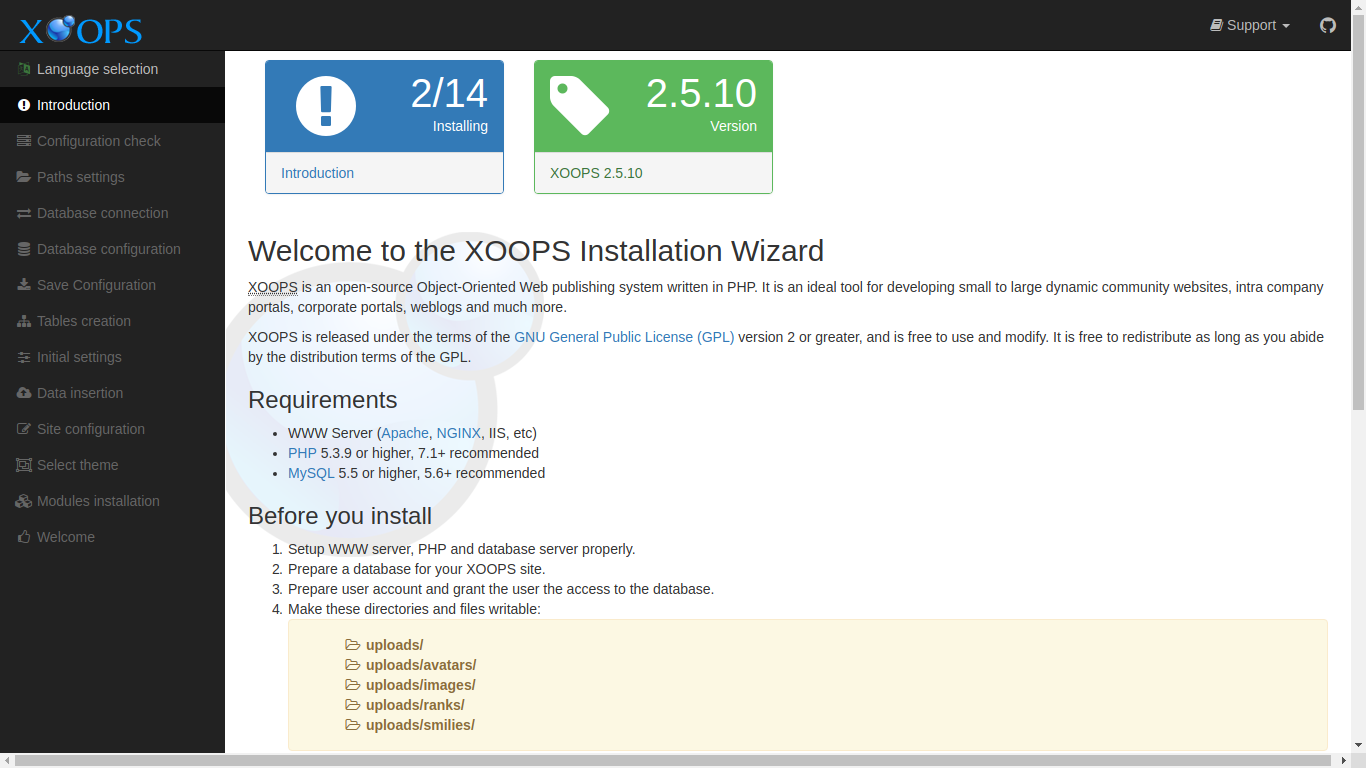
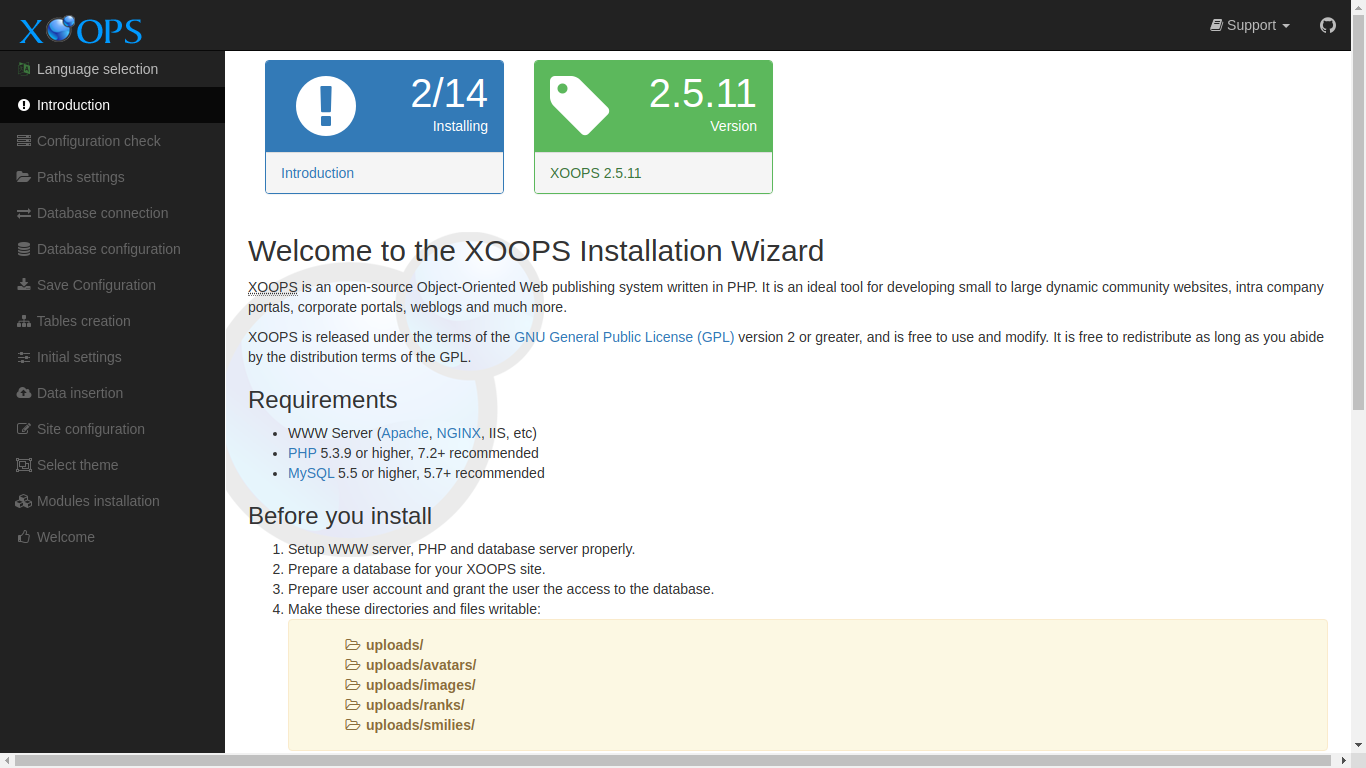
First draft 2.5.11

diff --git a/en.md b/en.md
@@ -2,7 +2,7 @@
 
 ![](.gitbook/assets/logoxoops.jpg)
 
-Copyright © 2018-2019 XOOPS Project \([https://xoops.org](https://xoops.org)\)
+Copyright © 2018-2020 XOOPS Project \([https://xoops.org](https://xoops.org)\)
 
 # Table of contents
 
@@ -62,8 +62,8 @@ Copyright © 2018-2019 XOOPS Project \([https://xoops.org](https://xoops.org)\)
 
 ## License:
 
-[![Creative Commons License](https://i.creativecommons.org/l/by-nc-sa/4.0/88x31.png)](http://creativecommons.org/licenses/by-nc-sa/4.0/)  
-Unless specified, this content is licensed under a [Creative Commons Attribution-NonCommercial-ShareAlike 4.0 International License](http://creativecommons.org/licenses/by-nc-sa/4.0/).
+[![Creative Commons License](https://i.creativecommons.org/l/by-nc-sa/4.0/88x31.png)](https://creativecommons.org/licenses/by-nc-sa/4.0/)  
+Unless specified, this content is licensed under a [Creative Commons Attribution-NonCommercial-ShareAlike 4.0 International License](https://creativecommons.org/licenses/by-nc-sa/4.0/).
 
 All derivative works are to be attributed to XOOPS Project \([xoops.org](https://xoops.org)\)
 

diff --git a/introduction.md b/introduction.md
@@ -1,6 +1,6 @@
 # Introduction
 
-[XOOPS](https://xoops.org), \(pronounced **/zo͞ops/**,\) is a web application platform built on PHP and MySQL. It is licensed under the terms of the GNU General Public License \(GPL\) version 2, and is free to use, modify, and even redistribute as long as you abide by the distribution terms of the [GPL](http://www.gnu.org/licenses/gpl-2.0.html).
+[XOOPS](https://xoops.org), \(pronounced **/zo͞ops/**,\) is a web application platform built on PHP and MySQL. It is licensed under the terms of the GNU General Public License \(GPL\) version 2, and is free to use, modify, and even redistribute as long as you abide by the distribution terms of the [GPL](https://www.gnu.org/licenses/gpl-2.0.html).
 
 The [XoopsCore](https://github.com/XOOPS/XoopsCore25) is a framework intended to be extended with [modules](https://github.com/XoopsModules25x) which provide the desired application functionality.
 

diff --git a/moving-a-site/moving.md b/moving-a-site/moving.md
@@ -61,10 +61,10 @@ As an example, if you are moving a site from your local PC to a commercial hosti
 | XOOPS\_ROOT\_PATH | c:/wamp/xoopscore25/htdocs | /home8/example/public\_html |
 | XOOPS\_PATH | c:/wamp/xoopscore25/htdocs/xoops\_lib | /home8/example/private/xoops\_lib |
 | XOOPS\_VAR\_PATH | c:/wamp/xoopscore25/htdocs/xoops\_data | /home8/example/private/xoops\_data |
-| XOOPS\_URL | [http://localhost/xoops/](http://localhost/xoops/) | [https://example.com](https://example.com) |
+| XOOPS\_URL | http://localhost/xoops | https://example.com |
 | XOOPS\_COOKIE\_DOMAIN | localhost | example.com |
 
-After you have changed mainfile.php, save it.
+After you have changed _mainfile.php_, save it.
 
 It is possible that some other files may contain hardcoded references to your URL or even paths. This is more likely in customized themes and menus, but with your editor, you can seach across all files, just to be sure.
 

diff --git a/installation/specialtopics.md b/installation/specialtopics.md
@@ -67,10 +67,12 @@ For more information consult your system documentation and/or systems administra
 
 ## MySQL 8.0 Environments
 
-MySQL 8.0 is not supported in all PHP versions. Even in the supported versions, issues with the 
- PHP *mysqlnd* library may require the MySQL server's *default-authentication-plugin* 
- to be set to *mysql_native_password* to function correctly.
+MySQL 8.0 is not fully supported in PHP versions before 7.1.16, or PHP 7.2 versions before 7.2.4. In earlier versions, 
+issues with the  PHP *mysqlnd* library may require the MySQL server's *default-authentication-plugin* to be set to 
+*mysql_native_password* to function correctly.
  
 Additional background may be found here: 
+
+https://www.php.net/manual/en/mysqli.requirements.php
 
 https://mysqlserverteam.com/upgrading-to-mysql-8-0-default-authentication-plugin-considerations/

diff --git a/license.md b/license.md
@@ -1,7 +1,7 @@
 # LICENSE
 
-[![Creative Commons License](https://i.creativecommons.org/l/by-nc-sa/4.0/88x31.png)](http://creativecommons.org/licenses/by-nc-sa/4.0/)  
-Unless otherwise specified, this content is licensed under a [Creative Commons Attribution-NonCommercial-ShareAlike 4.0 International License](http://creativecommons.org/licenses/by-nc-sa/4.0/).
+[![Creative Commons License](https://i.creativecommons.org/l/by-nc-sa/4.0/88x31.png)](https://creativecommons.org/licenses/by-nc-sa/4.0/)  
+Unless otherwise specified, this content is licensed under a [Creative Commons Attribution-NonCommercial-ShareAlike 4.0 International License](https://creativecommons.org/licenses/by-nc-sa/4.0/).
 
 All derivative works are to be attributed to XOOPS Project \([xoops.org](https://xoops.org)\)
 

diff --git a/tools/tools.md b/tools/tools.md
@@ -23,7 +23,7 @@ For XOOPS use, you will need an editor to tweak some configuration options as we
 | PhpStorm | [https://www.jetbrains.com/phpstorm/](https://www.jetbrains.com/phpstorm/) | Commercial | Any |
 | Visual Studio Code | [https://code.visualstudio.com/](https://code.visualstudio.com/) | MIT | Any |
 | Notepad++ | [https://notepad-plus-plus.org/](https://notepad-plus-plus.org/) | GPL | Win |
-| Meld | [http://meldmerge.org/](http://meldmerge.org/) | GPL | Any |
+| Meld | [https://meldmerge.org/](https://meldmerge.org/) | GPL | Any |
 
 ## FTP Client
 

diff --git a/README.md b/README.md
@@ -4,11 +4,11 @@
 
 ## XOOPS Version
 
-This version contains information specific to XOOPS 2.5.10
+This version contains information current as of XOOPS 2.5.11
 
 ### View it on: [![Gitbook](https://xoops.org/images/logoGitbookSmall.png)](https://www.gitbook.com/book/xoops/xoops-install-upgrade/)
 
-Copyright © 2018-2019 XOOPS Project \([xoops.org](https://xoops.org)\)
+Copyright © 2018-2020 XOOPS Project \([xoops.org](https://xoops.org)\)
 
 ### License:
 

diff --git a/installation/preparations/README.md b/installation/preparations/README.md
@@ -13,7 +13,7 @@ Obtain or prepare an environment to host the XOOPS system you will install, as d
 
 ## Download XOOPS
 
-Download the XOOPS 2.5.10 release from [GitHub](https://github.com/XOOPS/XoopsCore25/releases)
+Download the XOOPS 2.5.11 release from [GitHub](https://github.com/XOOPS/XoopsCore25/releases)
 
 Extract the files from the downloaded archive to prepare for copying to your server.
 
